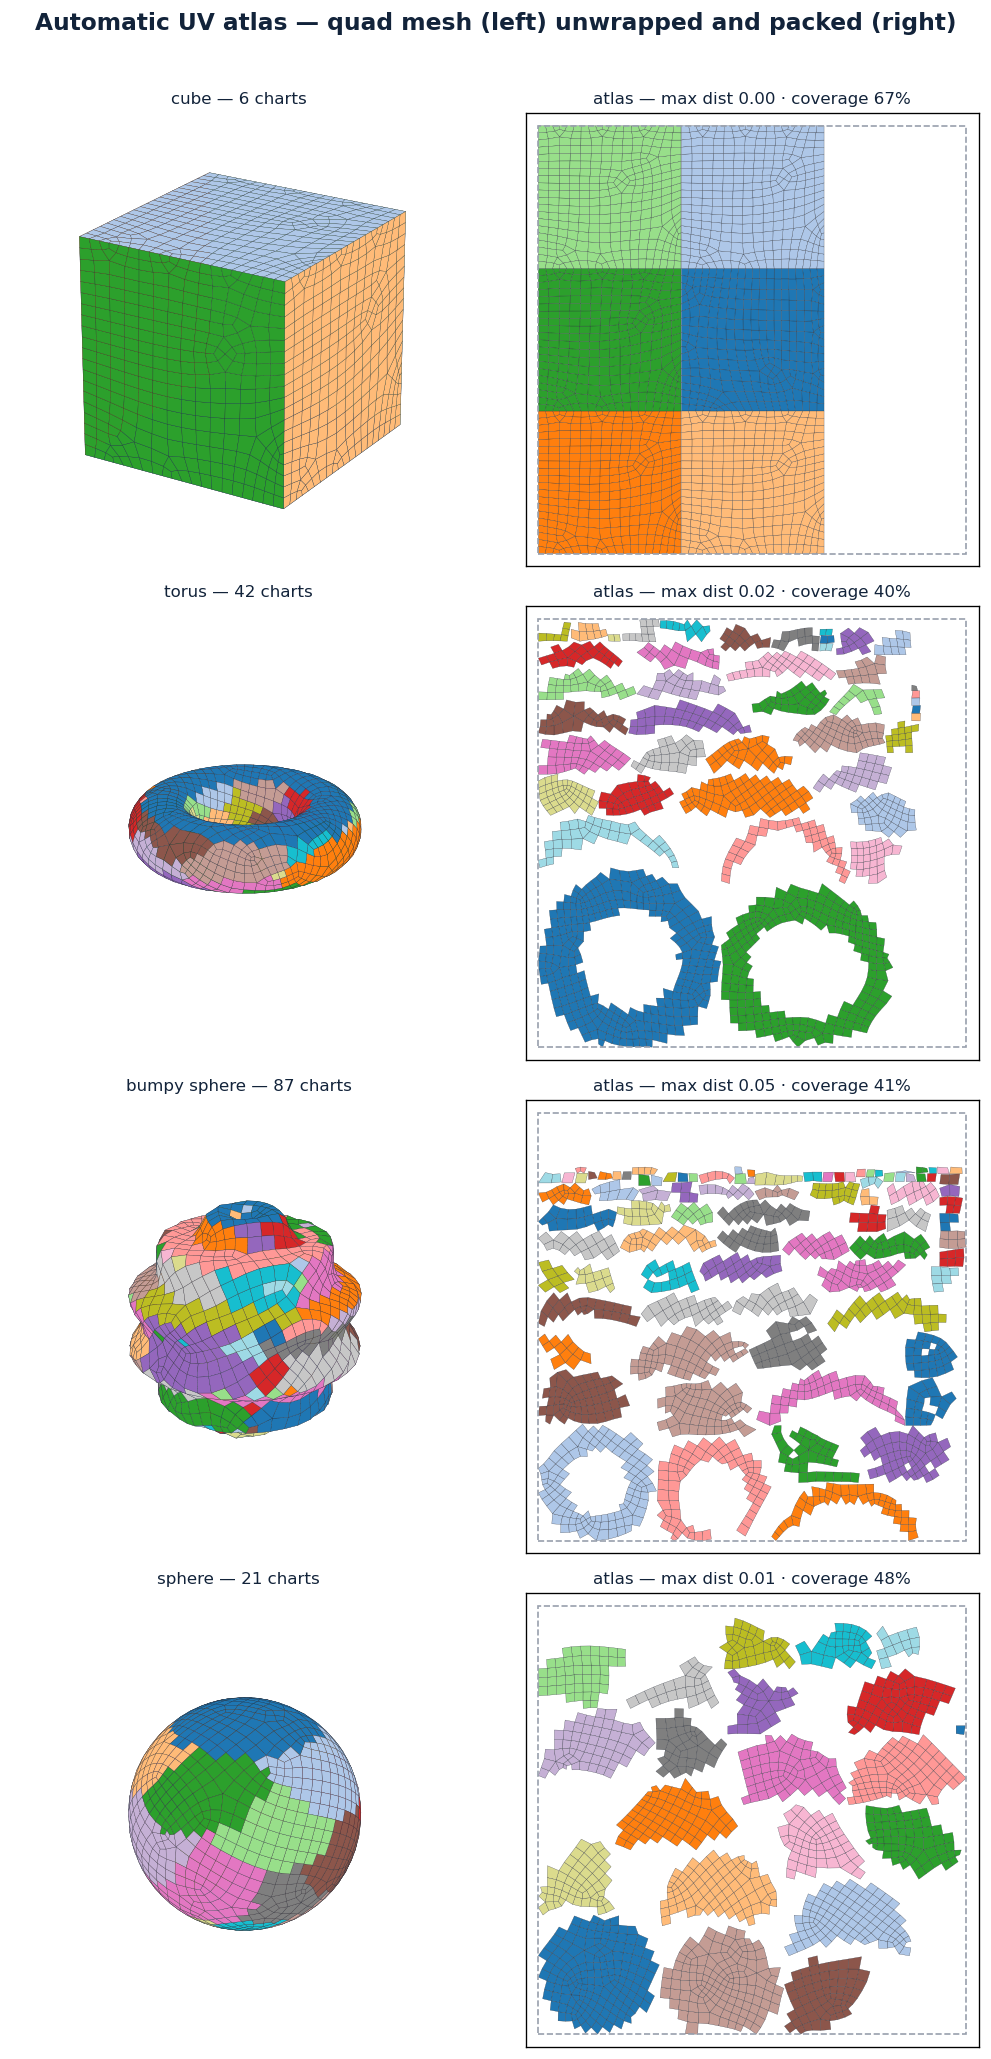
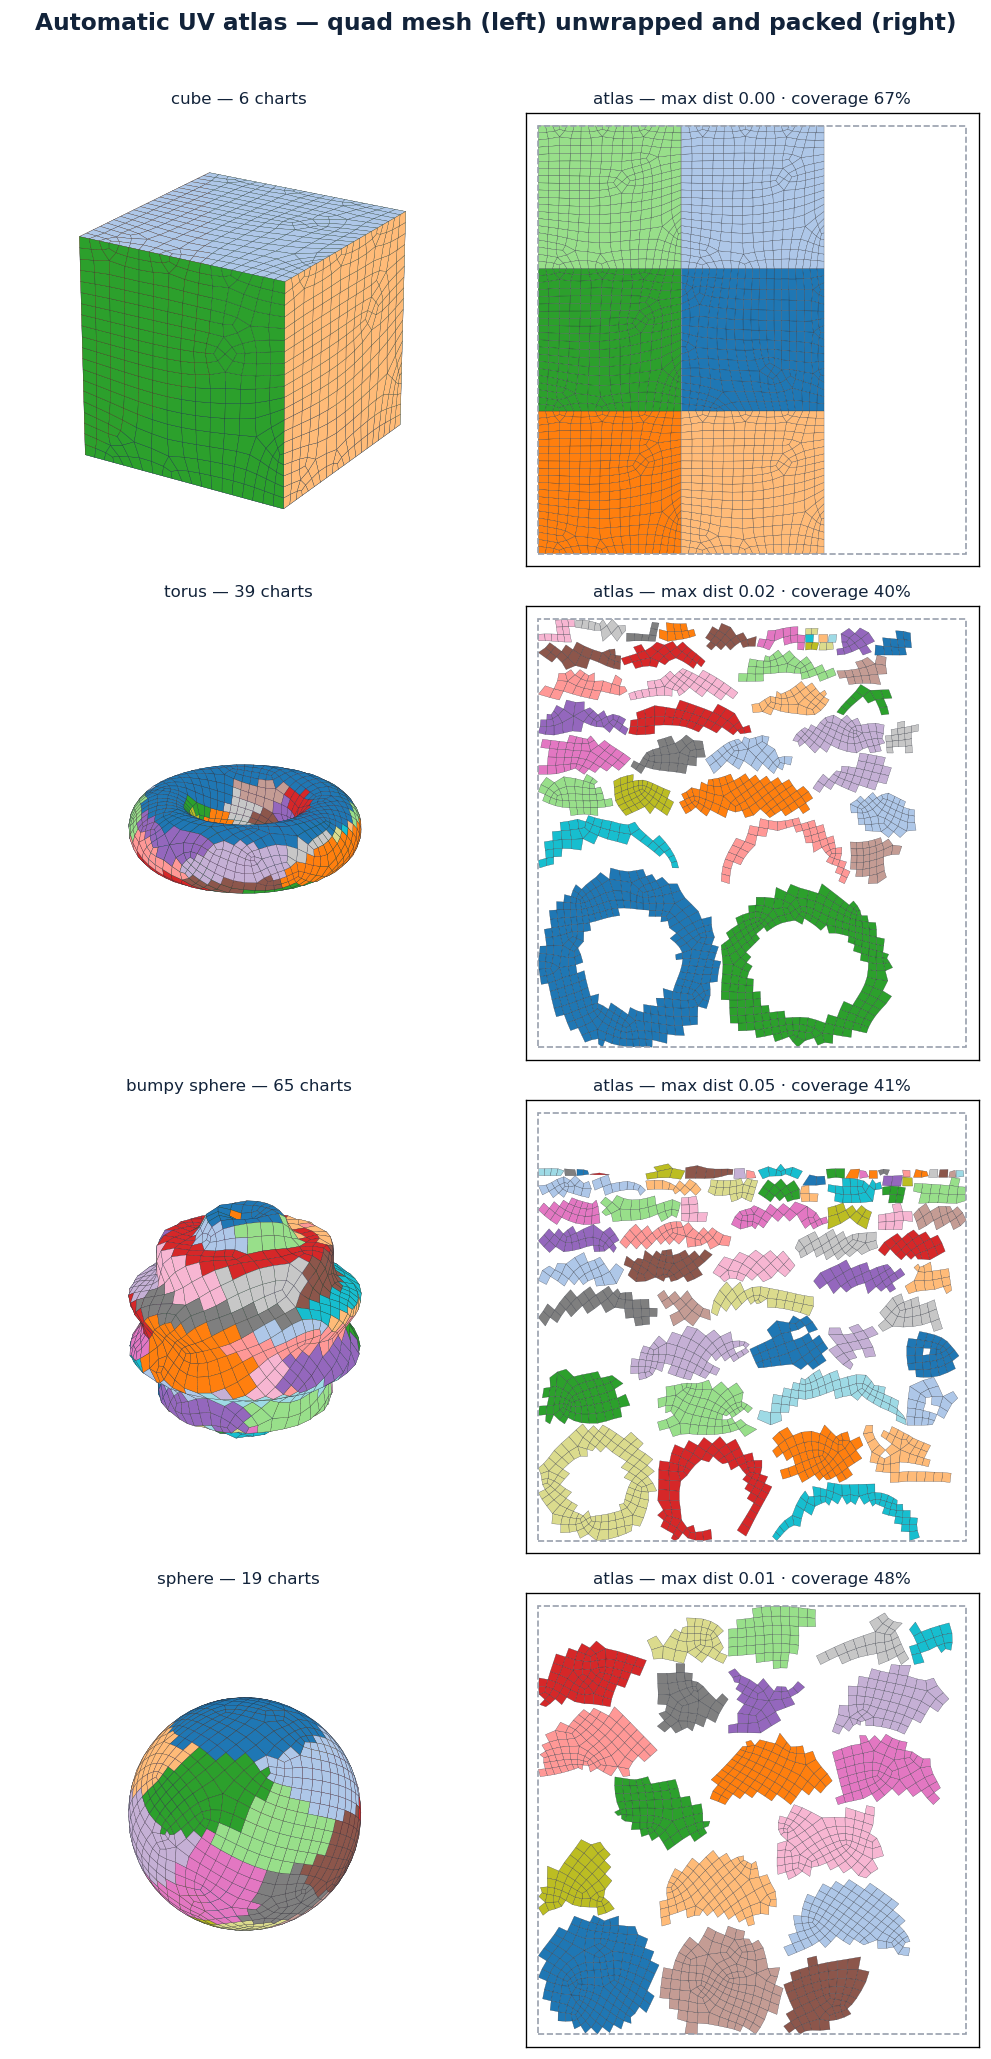
uv: merge adjacent charts sharing a normal cone (fewer seams)
Greedy seed growth fragments bumpy surfaces into many small charts that share a
compatible orientation (the bumpy sphere split into 87). Added a merge pass
(AtlasOptions.mergeCharts, default on): union-find over the chart adjacency graph
to a fixpoint, merging two adjacent charts when their UNION still fits within a
maxChartAngleDeg normal cone. Because every face of a merged chart then stays
inside one cone, the merged chart is at least as flat as seed growth guarantees —
so seam length drops without distortion rising, and a merged chart cannot wrap a
tube (a sub-90-degree cone is convex, keeping charts disk-like for LSCM).

Measured (examples/14_uv_atlas.py): bumpy sphere 87 -> 65 charts (-25%), torus
42 -> 39, sphere 21 -> 19; the cube's orthogonal faces correctly do not merge
(6 -> 6). Max angle distortion unchanged or better (bumpy 0.051 -> 0.048), 0
flips, coverage flat. Exposed as merge_charts through the C ABI and Python.

New test: a 7-quad strip bent 10 deg/quad spans 60 deg of normal, so seed growth
(40 deg bound) splits it but the whole strip fits one cone -> merge reunites it;
asserts the merged count drops with bounded distortion and no flips, and that a
cube's faces stay separate. Docs updated.

diff --git a/src/uv/src/atlas.cpp b/src/uv/src/atlas.cpp
@@ -3,6 +3,7 @@
 #include <algorithm>
 #include <cmath>
 #include <limits>
+#include <utility>
 #include <vector>
 
 #include "cyber/core/math.hpp"
@@ -58,6 +59,131 @@ std::vector<int> computeCharts(const Mesh& mesh, const AtlasOptions& options) {
         }
     }
     return chartOf;
+}
+
+// Merges adjacent charts whose union still fits within a `maxChartAngleDeg`
+// normal cone, then relabels `chartOf` compactly. Greedy seed growth splits a
+// bumpy surface into many small charts that share a compatible orientation;
+// this recombines them. Because every face of a merged chart stays within one
+// cone, the result is at least as flat as growth guarantees (distortion cannot
+// rise) and stays disk-like (a cone under 90-degrees cannot wrap a tube).
+// Deterministic: candidate pairs are processed in sorted order to a fixpoint.
+void mergeCoplanarCharts(const Mesh& mesh, std::vector<int>& chartOf,
+                         const AtlasOptions& options) {
+    int chartCount = 0;
+    for (const int c : chartOf) {
+        chartCount = std::max(chartCount, c + 1);
+    }
+    if (chartCount <= 1) {
+        return;
+    }
+    const auto n = static_cast<std::size_t>(chartCount);
+    const float cosBound = std::cos(degreesToRadians(options.maxChartAngleDeg));
+
+    std::vector<int> parent(n);
+    std::vector<Vec3> normalSum(n, Vec3{0.0f, 0.0f, 0.0f});
+    std::vector<std::vector<FaceId>> chartFaces(n);
+    for (std::size_t i = 0; i < n; ++i) {
+        parent[i] = static_cast<int>(i);
+    }
+
+    const auto capacity = mesh.faceCapacity();
+    for (Index f = 0; f < capacity; ++f) {
+        const FaceId face{f};
+        if (!mesh.isAlive(face)) {
+            continue;
+        }
+        const int c = chartOf[static_cast<std::size_t>(f)];
+        if (c < 0) {
+            continue;
+        }
+        chartFaces[static_cast<std::size_t>(c)].push_back(face);
+        normalSum[static_cast<std::size_t>(c)] =
+            normalSum[static_cast<std::size_t>(c)] + normalized(mesh.faceNormal(face));
+    }
+
+    // Adjacent chart pairs (deduplicated, sorted for determinism).
+    std::vector<std::pair<int, int>> pairs;
+    for (Index f = 0; f < capacity; ++f) {
+        const FaceId face{f};
+        if (!mesh.isAlive(face)) {
+            continue;
+        }
+        const int cf = chartOf[static_cast<std::size_t>(f)];
+        const std::vector<VertexId> verts = mesh.faceVertices(face);
+        const std::size_t vn = verts.size();
+        for (std::size_t i = 0; i < vn; ++i) {
+            const EdgeId edge = mesh.edgeBetween(verts[i], verts[(i + 1) % vn]);
+            if (!edge.valid()) {
+                continue;
+            }
+            for (const FaceId nb : mesh.edgeFaces(edge)) {
+                const int cn = chartOf[static_cast<std::size_t>(nb.value)];
+                if (cn != cf) {
+                    pairs.emplace_back(std::min(cf, cn), std::max(cf, cn));
+                }
+            }
+        }
+    }
+    std::sort(pairs.begin(), pairs.end());
+    pairs.erase(std::unique(pairs.begin(), pairs.end()), pairs.end());
+
+    const auto findRoot = [&](int x) {
+        while (parent[static_cast<std::size_t>(x)] != x) {
+            parent[static_cast<std::size_t>(x)] =
+                parent[static_cast<std::size_t>(parent[static_cast<std::size_t>(x)])];
+            x = parent[static_cast<std::size_t>(x)];
+        }
+        return x;
+    };
+    const auto withinCone = [&](const std::vector<FaceId>& faces, Vec3 axis) {
+        for (const FaceId face : faces) {
+            if (dot(normalized(mesh.faceNormal(face)), axis) < cosBound) {
+                return false;
+            }
+        }
+        return true;
+    };
+
+    bool changed = true;
+    while (changed) {
+        changed = false;
+        for (const std::pair<int, int>& pr : pairs) {
+            const int ra = findRoot(pr.first);
+            const int rb = findRoot(pr.second);
+            if (ra == rb) {
+                continue;
+            }
+            const std::size_t ia = static_cast<std::size_t>(ra);
+            const std::size_t ib = static_cast<std::size_t>(rb);
+            const Vec3 axis = normalized(normalSum[ia] + normalSum[ib]);
+            if (!withinCone(chartFaces[ia], axis) || !withinCone(chartFaces[ib], axis)) {
+                continue;
+            }
+            const std::size_t keep = static_cast<std::size_t>(std::min(ra, rb));
+            const std::size_t drop = static_cast<std::size_t>(std::max(ra, rb));
+            parent[drop] = static_cast<int>(keep);
+            normalSum[keep] = normalSum[ia] + normalSum[ib];
+            chartFaces[keep].insert(chartFaces[keep].end(), chartFaces[drop].begin(),
+                                    chartFaces[drop].end());
+            chartFaces[drop].clear();
+            changed = true;
+        }
+    }
+
+    std::vector<int> relabel(n, -1);
+    int next = 0;
+    for (Index f = 0; f < capacity; ++f) {
+        const int c = chartOf[static_cast<std::size_t>(f)];
+        if (c < 0) {
+            continue;
+        }
+        const int root = findRoot(c);
+        if (relabel[static_cast<std::size_t>(root)] < 0) {
+            relabel[static_cast<std::size_t>(root)] = next++;
+        }
+        chartOf[static_cast<std::size_t>(f)] = relabel[static_cast<std::size_t>(root)];
+    }
 }
 
 // Fallback UVs for a chart LSCM could not solve: orthographic projection onto
@@ -201,7 +327,10 @@ std::vector<Vec2> islandUvPoints(const Mesh& mesh, std::span<const FaceId> islan
 }  // namespace
 
 SeamSet autoSeams(const Mesh& mesh, const AtlasOptions& options) {
-    const std::vector<int> chartOf = computeCharts(mesh, options);
+    std::vector<int> chartOf = computeCharts(mesh, options);
+    if (options.mergeCharts) {
+        mergeCoplanarCharts(mesh, chartOf, options);
+    }
     SeamSet seams;
     const auto capacity = mesh.faceCapacity();
     for (Index f = 0; f < capacity; ++f) {

diff --git a/tests/uv/test_uv.cpp b/tests/uv/test_uv.cpp
@@ -41,6 +41,26 @@ Mesh makeCube() {
     return Mesh::fromIndexed(p, f);
 }
 
+// A strip of quads bending around the y-axis, `degPerQuad` per quad. Seed growth
+// splits it once the running normal exceeds the chart-angle bound; the merge pass
+// can re-unite the pieces when the whole strip still fits one normal cone.
+Mesh makeBentStrip(int quads, float degPerQuad) {
+    std::vector<Vec3> p;
+    std::vector<std::vector<Index>> f;
+    const float d = degPerQuad * 3.14159265f / 180.0f;
+    for (int i = 0; i <= quads; ++i) {
+        const float a = d * static_cast<float>(i);
+        p.push_back({std::cos(a), 0.0f, std::sin(a)});
+        p.push_back({std::cos(a), 1.0f, std::sin(a)});
+    }
+    for (int i = 0; i < quads; ++i) {
+        const Index b0 = static_cast<Index>(2 * i);
+        const Index b1 = static_cast<Index>(2 * (i + 1));
+        f.push_back({b0, b1, b1 + 1, b0 + 1});
+    }
+    return Mesh::fromIndexed(p, f);
+}
+
 std::vector<FaceId> aliveFaces(const Mesh& mesh) {
     std::vector<FaceId> faces;
     for (Index i = 0; i < mesh.faceCapacity(); ++i) {
@@ -233,6 +253,33 @@ TEST_CASE("unwrapAtlas produces a low-distortion, in-bounds cube atlas") {
         REQUIRE(p.x <= 1.0f + 1e-5f);
         REQUIRE(p.y <= 1.0f + 1e-5f);
     }
+}
+
+TEST_CASE("chart merge recombines fragmented coplanar-compatible charts") {
+    // 7 quads at 10 deg each span 60 deg of normal — seed growth (40 deg bound)
+    // splits them into two charts, but the whole strip fits a single 40 deg cone
+    // about its mean normal, so the merge pass reunites it.
+    Mesh split = makeBentStrip(7, 10.0f);
+    uv::AtlasOptions noMerge;
+    noMerge.mergeCharts = false;
+    const uv::AtlasResult a = uv::unwrapAtlas(split, noMerge);
+
+    Mesh merged = makeBentStrip(7, 10.0f);
+    uv::AtlasOptions merge;
+    merge.mergeCharts = true;
+    const uv::AtlasResult b = uv::unwrapAtlas(merged, merge);
+
+    REQUIRE(a.chartCount > 1);
+    REQUIRE(b.chartCount < a.chartCount);
+    REQUIRE(b.flippedCharts == 0);
+    // The reunited chart still lives inside one normal cone, so it stays a
+    // sanely-bounded conformal map (not an arbitrary blow-up).
+    REQUIRE(b.maxAngleDistortion < 0.35f);
+
+    // A cube's faces are 90 deg apart, so the merge must NOT combine them.
+    Mesh cube = makeCube();
+    const uv::AtlasResult c = uv::unwrapAtlas(cube, merge);
+    REQUIRE(c.chartCount == 6);
 }
 
 TEST_CASE("chart re-orientation tightens the cube atlas") {

diff --git a/src/uv/include/cyber/uv/atlas.hpp b/src/uv/include/cyber/uv/atlas.hpp
@@ -21,6 +21,12 @@ struct AtlasOptions {
     // chart's seed normal stays within this bound (degrees). Smaller values
     // make more, flatter charts (lower angular distortion, more seams).
     float maxChartAngleDeg = 40.0f;
+    // Merge adjacent charts whose union still fits within a `maxChartAngleDeg`
+    // normal cone. Greedy seed growth fragments bumpy surfaces into many small
+    // charts that share a compatible orientation; merging them cuts seam length
+    // (and packs better) without exceeding the per-chart flatness the growth
+    // already guarantees, so distortion does not rise.
+    bool mergeCharts = true;
     // Rotate each chart to its minimum-area bounding rectangle before packing.
     // LSCM fixes orientation from its pinned corners, so charts otherwise land
     // at arbitrary angles and waste space in the axis-aligned shelf packer.

diff --git a/capi/src/capi.cpp b/capi/src/capi.cpp
@@ -360,11 +360,13 @@ void cyber_default_atlas_params(CyberAtlasParams* params) {
     params->packMargin = defaults.pack.margin;
     params->textureSize = defaults.pack.textureSize;
     params->reorientCharts = defaults.reorientCharts ? 1 : 0;
+    params->mergeCharts = defaults.mergeCharts ? 1 : 0;
 #else
     params->maxChartAngleDegrees = 40.0f;
     params->packMargin = 0.0f;
     params->textureSize = 1024;
     params->reorientCharts = 1;
+    params->mergeCharts = 1;
 #endif
 }
 
@@ -383,6 +385,7 @@ CyberStatus cyber_uv_atlas([[maybe_unused]] CyberMesh* mesh,
             opts.pack.margin = params->packMargin;
             opts.pack.textureSize = params->textureSize;
             opts.reorientCharts = params->reorientCharts != 0;
+            opts.mergeCharts = params->mergeCharts != 0;
         }
         const cyber::uv::AtlasResult r = cyber::uv::unwrapAtlas(mesh->mesh, opts);
         if (out != nullptr) {

diff --git a/python/cyberremesh/cyberremesh/api.py b/python/cyberremesh/cyberremesh/api.py
@@ -167,6 +167,8 @@ class AtlasParams:
     max_chart_angle_degrees: float = 40.0
     pack_margin: float = 0.0  # gap around each island, in UV units
     texture_size: int = 1024  # resolution for the texel-density readout
+    # Merge adjacent charts sharing a normal cone (fewer seams, same flatness).
+    merge_charts: bool = True
     # Rotate each chart to its minimum-area bounding box before packing (tighter
     # pack / higher texel density).
     reorient_charts: bool = True
@@ -177,6 +179,7 @@ class AtlasParams:
             pack_margin=float(self.pack_margin),
             texture_size=int(self.texture_size),
             reorient_charts=1 if self.reorient_charts else 0,
+            merge_charts=1 if self.merge_charts else 0,
         )
 
 

diff --git a/capi/include/cyber_capi.h b/capi/include/cyber_capi.h
@@ -128,6 +128,8 @@ typedef struct CyberAtlasParams {
     int textureSize;            /* resolution for the texel-density readout */
     int reorientCharts;         /* non-zero: rotate each chart to its minimum-
                                  * area bounding box before packing */
+    int mergeCharts;            /* non-zero: merge adjacent charts sharing a
+                                 * normal cone (fewer seams, same flatness) */
 } CyberAtlasParams;
 
 /* Aggregate atlas quality/packing report. */

diff --git a/python/cyberremesh/cyberremesh/_ffi.py b/python/cyberremesh/cyberremesh/_ffi.py
@@ -110,6 +110,7 @@ class CyberAtlasParams(Structure):
         ("pack_margin", c_float),
         ("texture_size", c_int32),
         ("reorient_charts", c_int32),
+        ("merge_charts", c_int32),
     ]
 
 

diff --git a/docs/uv-atlas-plan.md b/docs/uv-atlas-plan.md
@@ -11,17 +11,24 @@ from an arbitrary mesh to a packed UV atlas without a human drawing every seam.
 
 `unwrapAtlas(mesh, options)`:
 
-1. **Seam generation** (`autoSeams`) — greedy normal-coherent chart growth. From
-   each ascending-id seed face, flood-fill neighbours whose normal stays within
-   `maxChartAngleDeg` of the seed normal. Deterministic; every face lands in
-   exactly one chart. Edges between different charts become seams (mesh boundary
-   edges are already island boundaries and are left unmarked).
-2. **Charts** — `computeIslands(mesh, seams)` re-derives the face partition from
+1. **Chart growth** — greedy normal-coherent seed growth. From each ascending-id
+   seed face, flood-fill neighbours whose normal stays within `maxChartAngleDeg`
+   of the seed normal. Deterministic; every face lands in exactly one chart.
+2. **Merge** (`mergeCharts`, default on) — greedy seed growth fragments bumpy
+   surfaces into many small charts that share a compatible orientation. This pass
+   merges adjacent charts whose *union* still fits within a `maxChartAngleDeg`
+   normal cone (union-find to a fixpoint over the adjacency graph). Because every
+   face of a merged chart stays inside one cone, the result is at least as flat as
+   growth guarantees — so it cuts seam length (bumpy sphere 87 → 65 charts)
+   *without* raising distortion, and cannot wrap a tube (a sub-90° cone is convex).
+   `autoSeams` then marks the edges between the final charts as seams (mesh
+   boundary edges are already island boundaries and are left unmarked).
+3. **Charts** — `computeIslands(mesh, seams)` re-derives the face partition from
    the seams (single tested code path).
-3. **Unwrap** — `lscmUnwrap` per chart (conformal, in-house CGLS). A degenerate
+4. **Unwrap** — `lscmUnwrap` per chart (conformal, in-house CGLS). A degenerate
    chart LSCM rejects falls back to orthographic **planar projection** onto the
    chart's average-normal plane, so every chart always receives UVs.
-4. **Re-orient** (`reorientCharts`, default on) — rotate each chart to its
+5. **Re-orient** (`reorientCharts`, default on) — rotate each chart to its
    minimum-area bounding rectangle. LSCM fixes orientation from its two pinned
    corners, so charts otherwise land at arbitrary angles and waste space in the
    axis-aligned shelf packer. The optimal rectangle always shares an edge with
@@ -29,9 +36,9 @@ from an arbitrary mesh to a packed UV atlas without a human drawing every seam.
    (Andrew's monotone-chain hull + per-edge bounding box); the longer side is
    left horizontal. Being a similarity, this leaves conformal distortion and
    flips unchanged.
-5. **Measure** — `measureDistortion` per chart, aggregated into max/RMS angular
+6. **Measure** — `measureDistortion` per chart, aggregated into max/RMS angular
    (conformal) error and a flipped-chart count.
-6. **Pack** — `packIslands` into the unit square with a uniform scale, using the
+7. **Pack** — `packIslands` into the unit square with a uniform scale, using the
    bottom-left **skyline** strategy (`PackStrategy::Skyline`): a per-column height
    map over a fixed-width strip drops each box into the lowest gap, filling the
    vertical slack the shelf packer leaves. Several strip widths are tried and the
@@ -60,9 +67,12 @@ real texel-efficiency measure), with chart re-orientation off vs on:
 | model        | quads | charts | max angle dist | flips | coverage (final) |
 |--------------|------:|-------:|---------------:|------:|-----------------:|
 | cube         | 1728  | 6      | 0.000          | 0     | 67%              |
-| torus        | 1364  | 42     | 0.024          | 0     | 40%              |
-| bumpy sphere | 1228  | 87     | 0.051          | 0     | 41%              |
-| sphere       | 1326  | 21     | 0.015          | 0     | 48%              |
+| torus        | 1364  | 39     | 0.024          | 0     | 40%              |
+| bumpy sphere | 1228  | 65     | 0.048          | 0     | 41%              |
+| sphere       | 1326  | 19     | 0.015          | 0     | 48%              |
+
+Chart counts are after the merge pass (bumpy sphere 87 → 65, torus 42 → 39,
+sphere 21 → 19; the cube's orthogonal faces cannot merge).
 
 Angle distortion is conformal error in `[0,1)`; 0 = angle-preserving. Normal-
 coherent charts stay near-flat, so LSCM is essentially conformal and never flips.
@@ -85,8 +95,5 @@ adds a steady 6–7 points by filling the gaps between the irregular organic cha
   L-shaped or ring chart still reserves its whole box. True polygon nesting (pack
   against the chart outline, not its box) is the next lever, worth most on the
   concave organic charts (the torus/sphere rings visibly waste their interior).
-- **Chart count on organic meshes** — a fixed normal threshold makes many small
-  charts on bumpy surfaces (87 on the bumpy sphere). A merge pass (combine
-  adjacent charts while distortion stays under a bound) would cut seam length.
 - **Benchmark** — compare distortion + packing against xatlas / Blender Smart UV
   Project on a shared corpus, mirroring the remesher-vs-QuadriFlow harness.

diff --git a/README.md b/README.md
@@ -31,9 +31,11 @@ as idea references, never copied — see [`THIRD_PARTY_NOTICES.md`](THIRD_PARTY_
 
 Beyond the interactive UV editor (hand-drawn seams, LSCM unwrap, packing,
 distortion overlay), the engine has a one-call automatic path: `Mesh.unwrap_atlas`
-(C: `cyber_uv_atlas`). It seams the mesh into normal-coherent charts, LSCM-unwraps
-each chart conformally, re-orients each chart to its minimum-area bounding box,
-skyline-packs them into the unit square, and writes the per-corner UV attribute —
+(C: `cyber_uv_atlas`). It seams the mesh into normal-coherent charts, merges
+adjacent charts that still share a normal cone (fewer seams, same flatness),
+LSCM-unwraps each chart conformally, re-orients each chart to its minimum-area
+bounding box, skyline-packs them into the unit square, and writes the per-corner
+UV attribute —
 mesh in, packed atlas out, no manual seams. It returns chart count, conformal
 (angle) distortion, flip count and packing efficiency. On the remeshed quad output
 it holds angular distortion under ~0.05 (conformal error, 0 = angle-preserving)